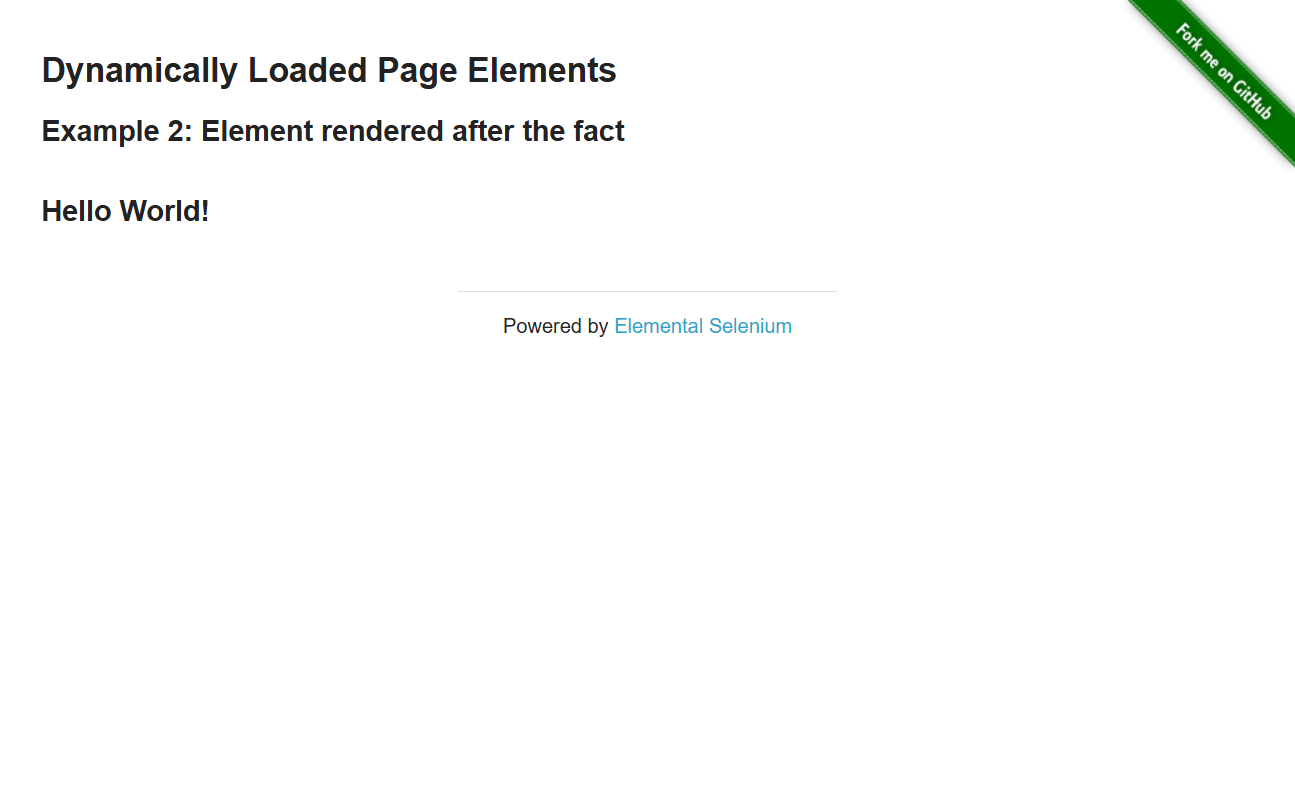
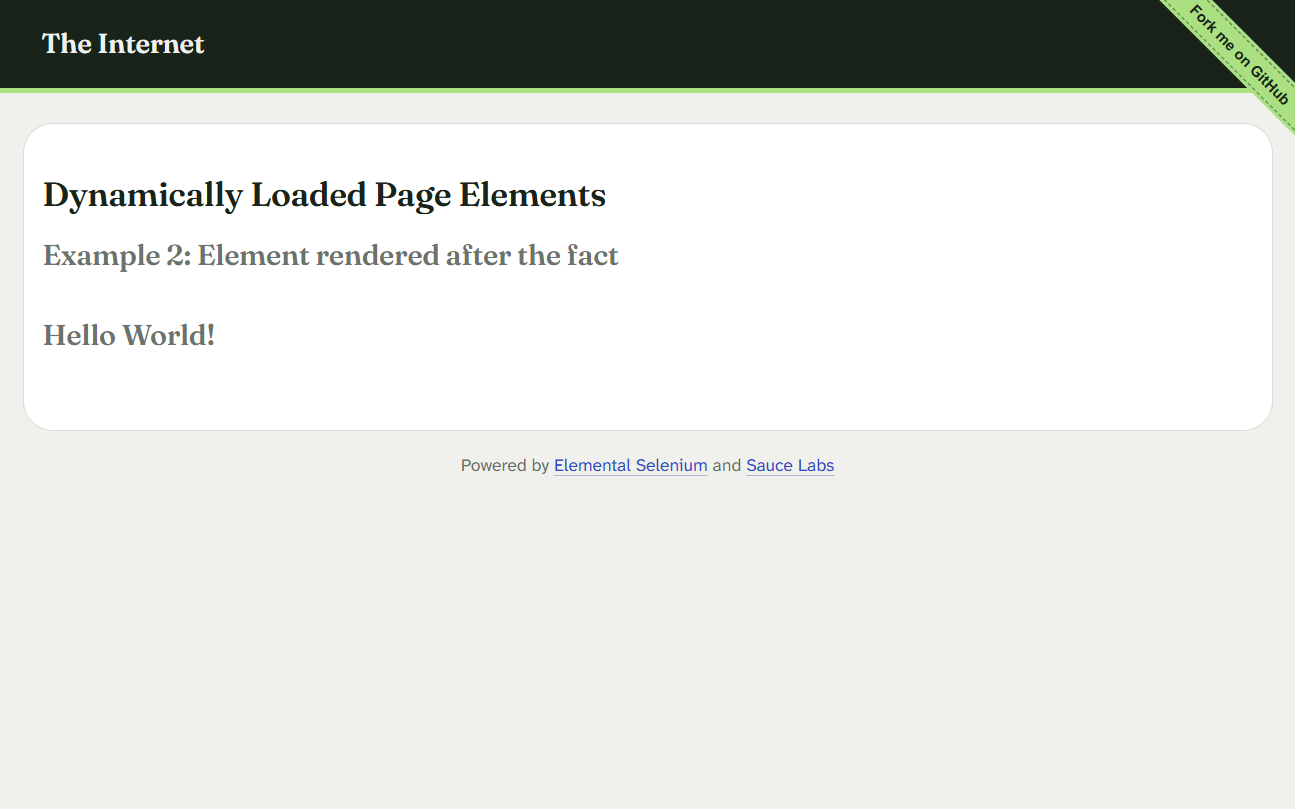
исправленный файл lesson_07

diff --git a/lesson_07/pages/calc_page.py b/lesson_07/pages/calc_page.py
@@ -1,6 +1,6 @@
 from selenium.webdriver.support.ui import WebDriverWait
 from selenium.webdriver.common.by import By
-from lesson_07.pages.base_page import BasePage
+from pages.base_page import BasePage
 
 class CalcPage(BasePage):
     DELAY_INPUT = (By.ID, "delay")

diff --git a/lesson_07/pages/shop_page.py b/lesson_07/pages/shop_page.py
@@ -1,5 +1,5 @@
 from selenium.webdriver.common.by import By
-from lesson_07.pages.base_page import BasePage
+from pages.base_page import BasePage
 
 
 class ShopPage(BasePage):

diff --git a/lesson_07/tests/test_calc.py b/lesson_07/tests/test_calc.py
@@ -1,4 +1,4 @@
-from lesson_07.pages.calc_page import CalcPage
+from pages.calc_page import CalcPage
 
 
 def test_calculate(calc_driver):

diff --git a/lesson_07/tests/test_shop.py b/lesson_07/tests/test_shop.py
@@ -1,4 +1,4 @@
-from lesson_07.pages.shop_page import ShopPage
+from pages.shop_page import ShopPage
 
 
 def test_shopping(shop_driver):
